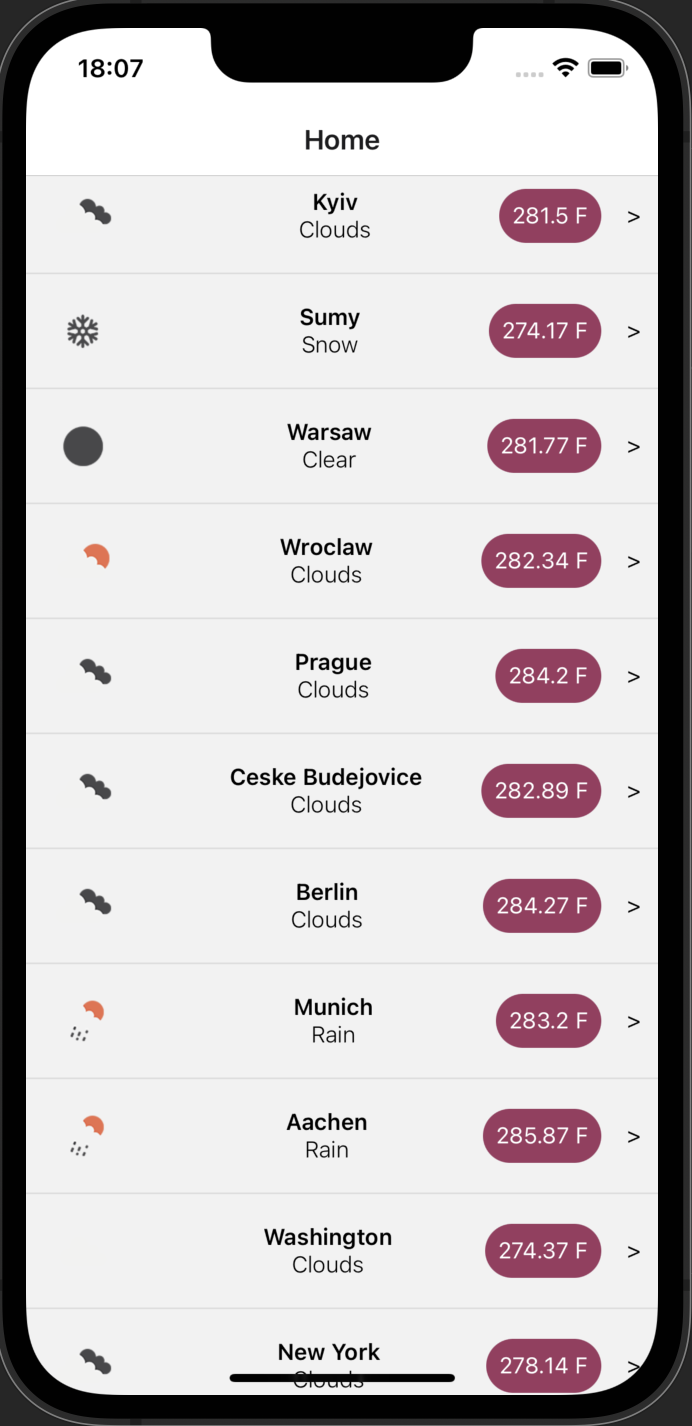
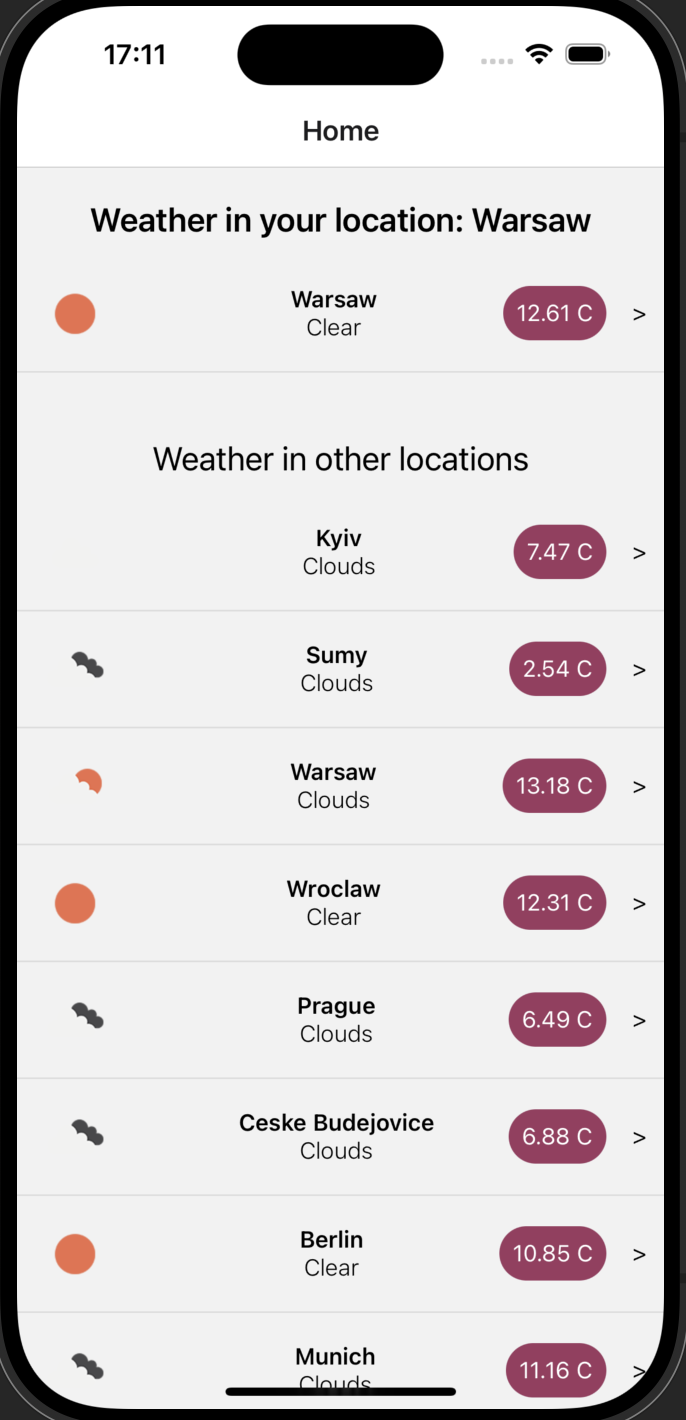
feat: Add location native module for weather in location

diff --git a/src/screens/home/index.tsx b/src/screens/home/index.tsx
@@ -1,21 +1,54 @@
 import React from 'react';
 import {useEffect, useState} from 'react';
-import {ActivityIndicator, FlatList, Text, View} from 'react-native';
+import {ActivityIndicator, Alert, FlatList, Text, View} from 'react-native';
 import Config from 'react-native-config';
 import WheatherRow from '../../components/weather-row';
 import {CITIES_LIST} from '../../utils/constants';
+import {NativeModules} from 'react-native';
 
 const Home = () => {
   const [wheather, setWheater] = useState([]);
   const [isLoading, setIsLoading] = useState(true);
   const [isError, setIsError] = useState(true);
+  const [coords, setCoords] = useState();
+  const [weatherLocation, setWeatherLocation] = useState();
+  const {RNLocation} = NativeModules;
+
+  const location = async () => {
+    await RNLocation.getCoordinates(
+      data => {
+        setCoords(data);
+      },
+      error => {
+        console.log('error', error);
+      },
+    );
+  };
 
   useEffect(() => {
+    if (coords) {
+      const {latitude, longitude} = coords;
+      fetch(
+        `https://api.openweathermap.org/data/2.5/weather?lat=${latitude}&lon=${longitude}&appid=${Config.WHEATHER_API_KEY}&units=metric`,
+      )
+        .then(res => res.json())
+        .then(res => {
+          setWeatherLocation(res);
+        })
+        .catch(e => {
+          console.log('error', e);
+        });
+    }
+  }, [coords]);
+
+  useEffect(() => {
+    location();
+
     setIsLoading(true);
     fetch(
       `https://api.openweathermap.org/data/2.5/group?id=${CITIES_LIST.join(
         ',',
-      )}&appid=${Config.WHEATHER_API_KEY}`,
+      )}&appid=${Config.WHEATHER_API_KEY}&units=metric`,
     )
       .then(res => res.json())
       .then(res => {
@@ -39,13 +72,42 @@ const Home = () => {
   }
 
   return (
-    <FlatList
-      data={wheather}
-      keyExtractor={item => item.id}
-      ListFooterComponent={() =>
-        isError && <Text>Something went wrong with API fetch</Text>
-      }
-      renderItem={({item}) => <WheatherRow weather={item} />}></FlatList>
+    <View style={{flex: 1, flexDirection: 'column'}}>
+      {weatherLocation && (
+        <View
+          style={{
+            flexDirection: 'column',
+            marginBottom: 10,
+          }}>
+          <Text
+            style={{
+              textAlign: 'center',
+              fontWeight: 600,
+              fontSize: 20,
+              marginVertical: 20,
+            }}>
+            Weather in your location: {weatherLocation.name}
+          </Text>
+          <View>
+            <WheatherRow weather={weatherLocation} />
+          </View>
+        </View>
+      )}
+      <FlatList
+        data={wheather}
+        style={{flex: 1}}
+        keyExtractor={item => item.id}
+        ListHeaderComponent={
+          <Text style={{textAlign: 'center', fontSize: 20, marginVertical: 20}}>
+            Weather in other locations
+          </Text>
+        }
+        ListFooterComponent={() =>
+          isError && <Text>Something went wrong with API fetch</Text>
+        }
+        renderItem={({item}) => <WheatherRow weather={item} />}
+      />
+    </View>
   );
 };
 

diff --git a/src/screens/weather-details/index.tsx b/src/screens/weather-details/index.tsx
@@ -17,14 +17,10 @@ const WeatherDetails = ({
   const [isLoading, setIsLoading] = useState(true);
   const [isError, setIsError] = useState(false);
 
-  console.log(
-    `https://api.openweathermap.org/data/2.5/weather?lat=${coord.lat}&lon=${coord.lon}&appid=${Config.WHEATHER_API_KEY}`,
-  );
-
   useEffect(() => {
     setIsLoading(true);
     fetch(
-      `https://api.openweathermap.org/data/2.5/weather?lat=${coord.lat}&lon=${coord.lon}&appid=${Config.WHEATHER_API_KEY}`,
+      `https://api.openweathermap.org/data/2.5/weather?lat=${coord.lat}&lon=${coord.lon}&appid=${Config.WHEATHER_API_KEY}&units=metric`,
     )
       .then(res => res.json())
       .then(res => {

diff --git a/src/components/weather-row/index.tsx b/src/components/weather-row/index.tsx
@@ -27,7 +27,6 @@ const WeatherRow = ({weather}: WeatherRowProps) => {
       }}>
       <View
         style={{
-          flex: 1,
           flexDirection: 'row',
           alignItems: 'center',
           gap: 16,
@@ -64,7 +63,7 @@ const WeatherRow = ({weather}: WeatherRowProps) => {
 
         <View
           style={{backgroundColor: '#9c3a5f', borderRadius: 50, padding: 8}}>
-          <Text style={{color: '#fff'}}>{`${main.temp} F`}</Text>
+          <Text style={{color: '#fff'}}>{`${main.temp} C`}</Text>
         </View>
         <Text>{'>'}</Text>
       </View>

diff --git a/ios/RNLocation.m b/ios/RNLocation.m
@@ -1,0 +1,43 @@
+#import "RNLocation.h"
+#import <CoreLocation/CoreLocation.h>
+#import <React/RCTLog.h>
+
+@implementation RNLocation {
+    CLLocationManager *_locationManager;
+    RCTResponseSenderBlock _successCallback;
+}
+
+RCT_EXPORT_MODULE(RNLocation);
+
+- (instancetype)init {
+    self = [super init];
+    if (self) {
+        _locationManager = [[CLLocationManager alloc] init];
+        _locationManager.delegate = self;
+    }
+    return self;
+}
+
+RCT_EXPORT_METHOD(getCoordinates:(RCTResponseSenderBlock)successCallback errorCallback:(RCTResponseSenderBlock)errorCallback) {
+    _successCallback = successCallback;
+    
+    [_locationManager requestAlwaysAuthorization];
+    [_locationManager startUpdatingLocation];
+}
+
+- (void)locationManager:(CLLocationManager *)manager didUpdateLocations:(NSArray<CLLocation *> *)locations {
+    CLLocation *currentLocation = [locations lastObject];
+    NSDictionary *locationData = @{
+         @"latitude": @(currentLocation.coordinate.latitude),
+         @"longitude": @(currentLocation.coordinate.longitude)
+     };
+    _successCallback(@[locationData]);
+    RCTLogInfo(@"locationData native: %@", locationData);
+    [_locationManager stopUpdatingLocation];
+}
+
+- (void)locationManager:(CLLocationManager *)manager didFailWithError:(NSError *)error {
+    RCTLogInfo(@"Failed to get location: %@", error.localizedDescription);
+}
+@end
+

diff --git a/ios/RNLocation.h b/ios/RNLocation.h
@@ -1,0 +1,6 @@
+#import <React/RCTBridgeModule.h>
+#import <React/RCTEventEmitter.h>
+
+@interface RNLocation : RCTEventEmitter <RCTBridgeModule>
+
+@end
